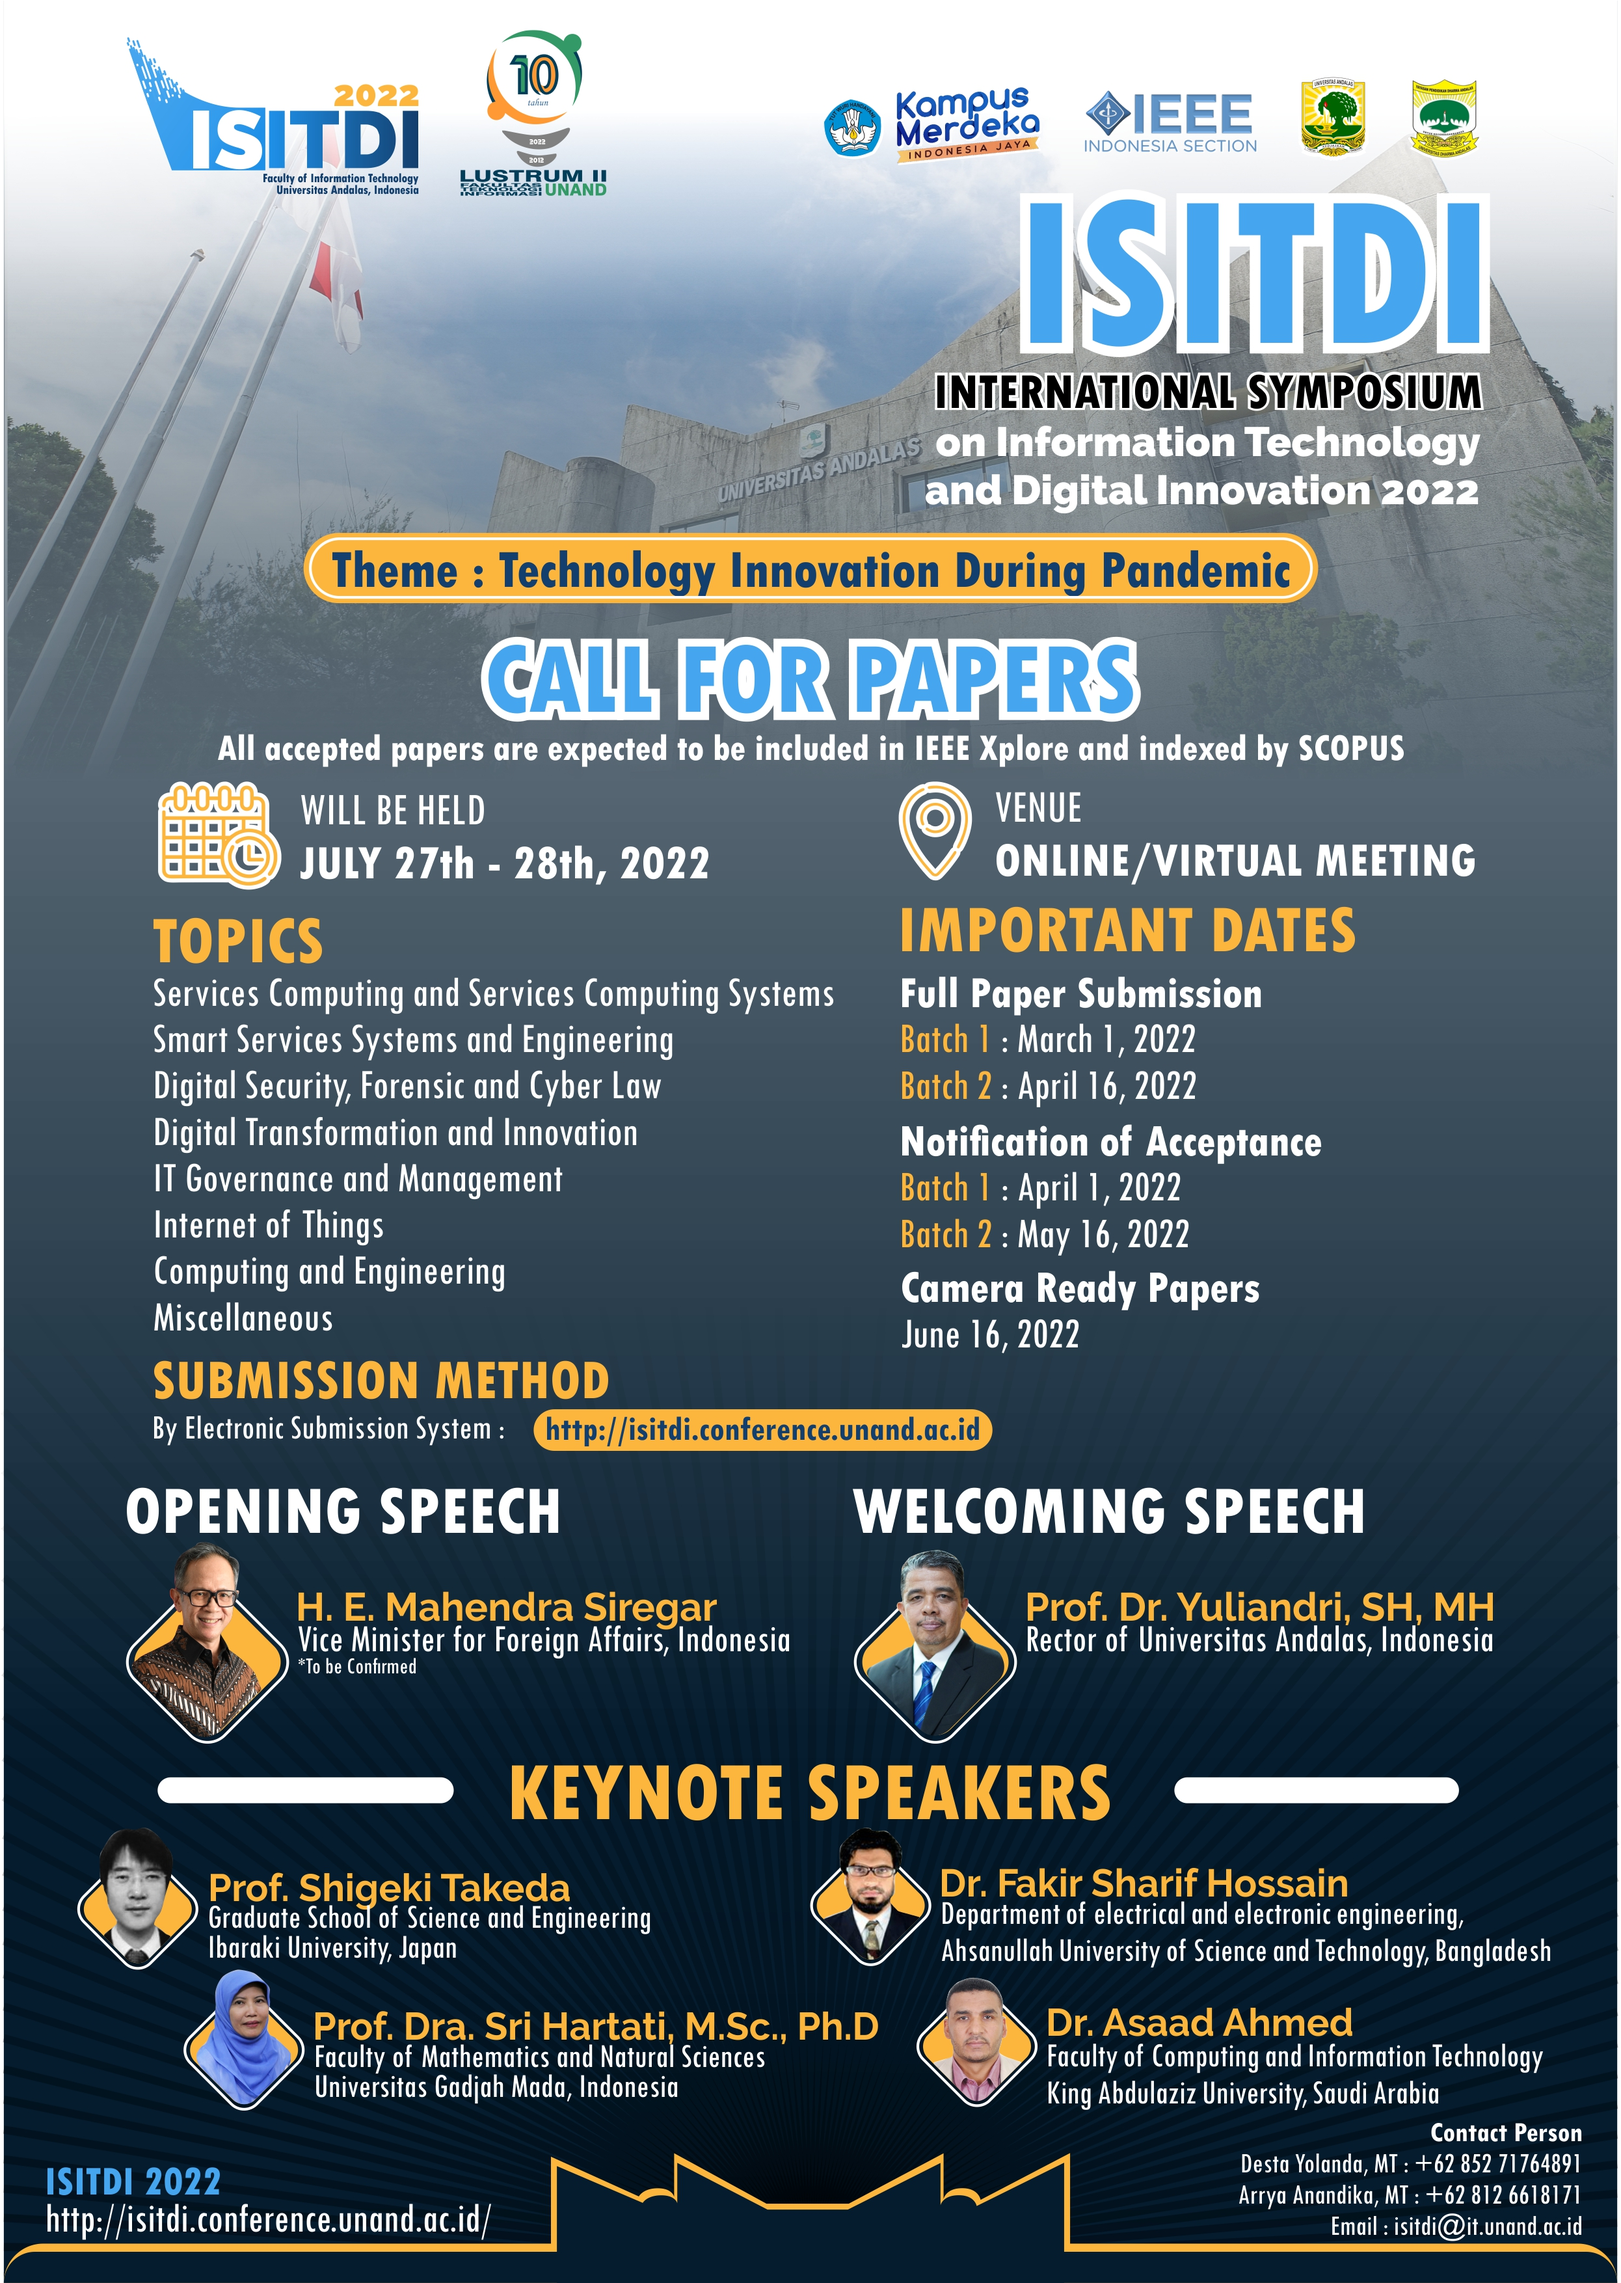
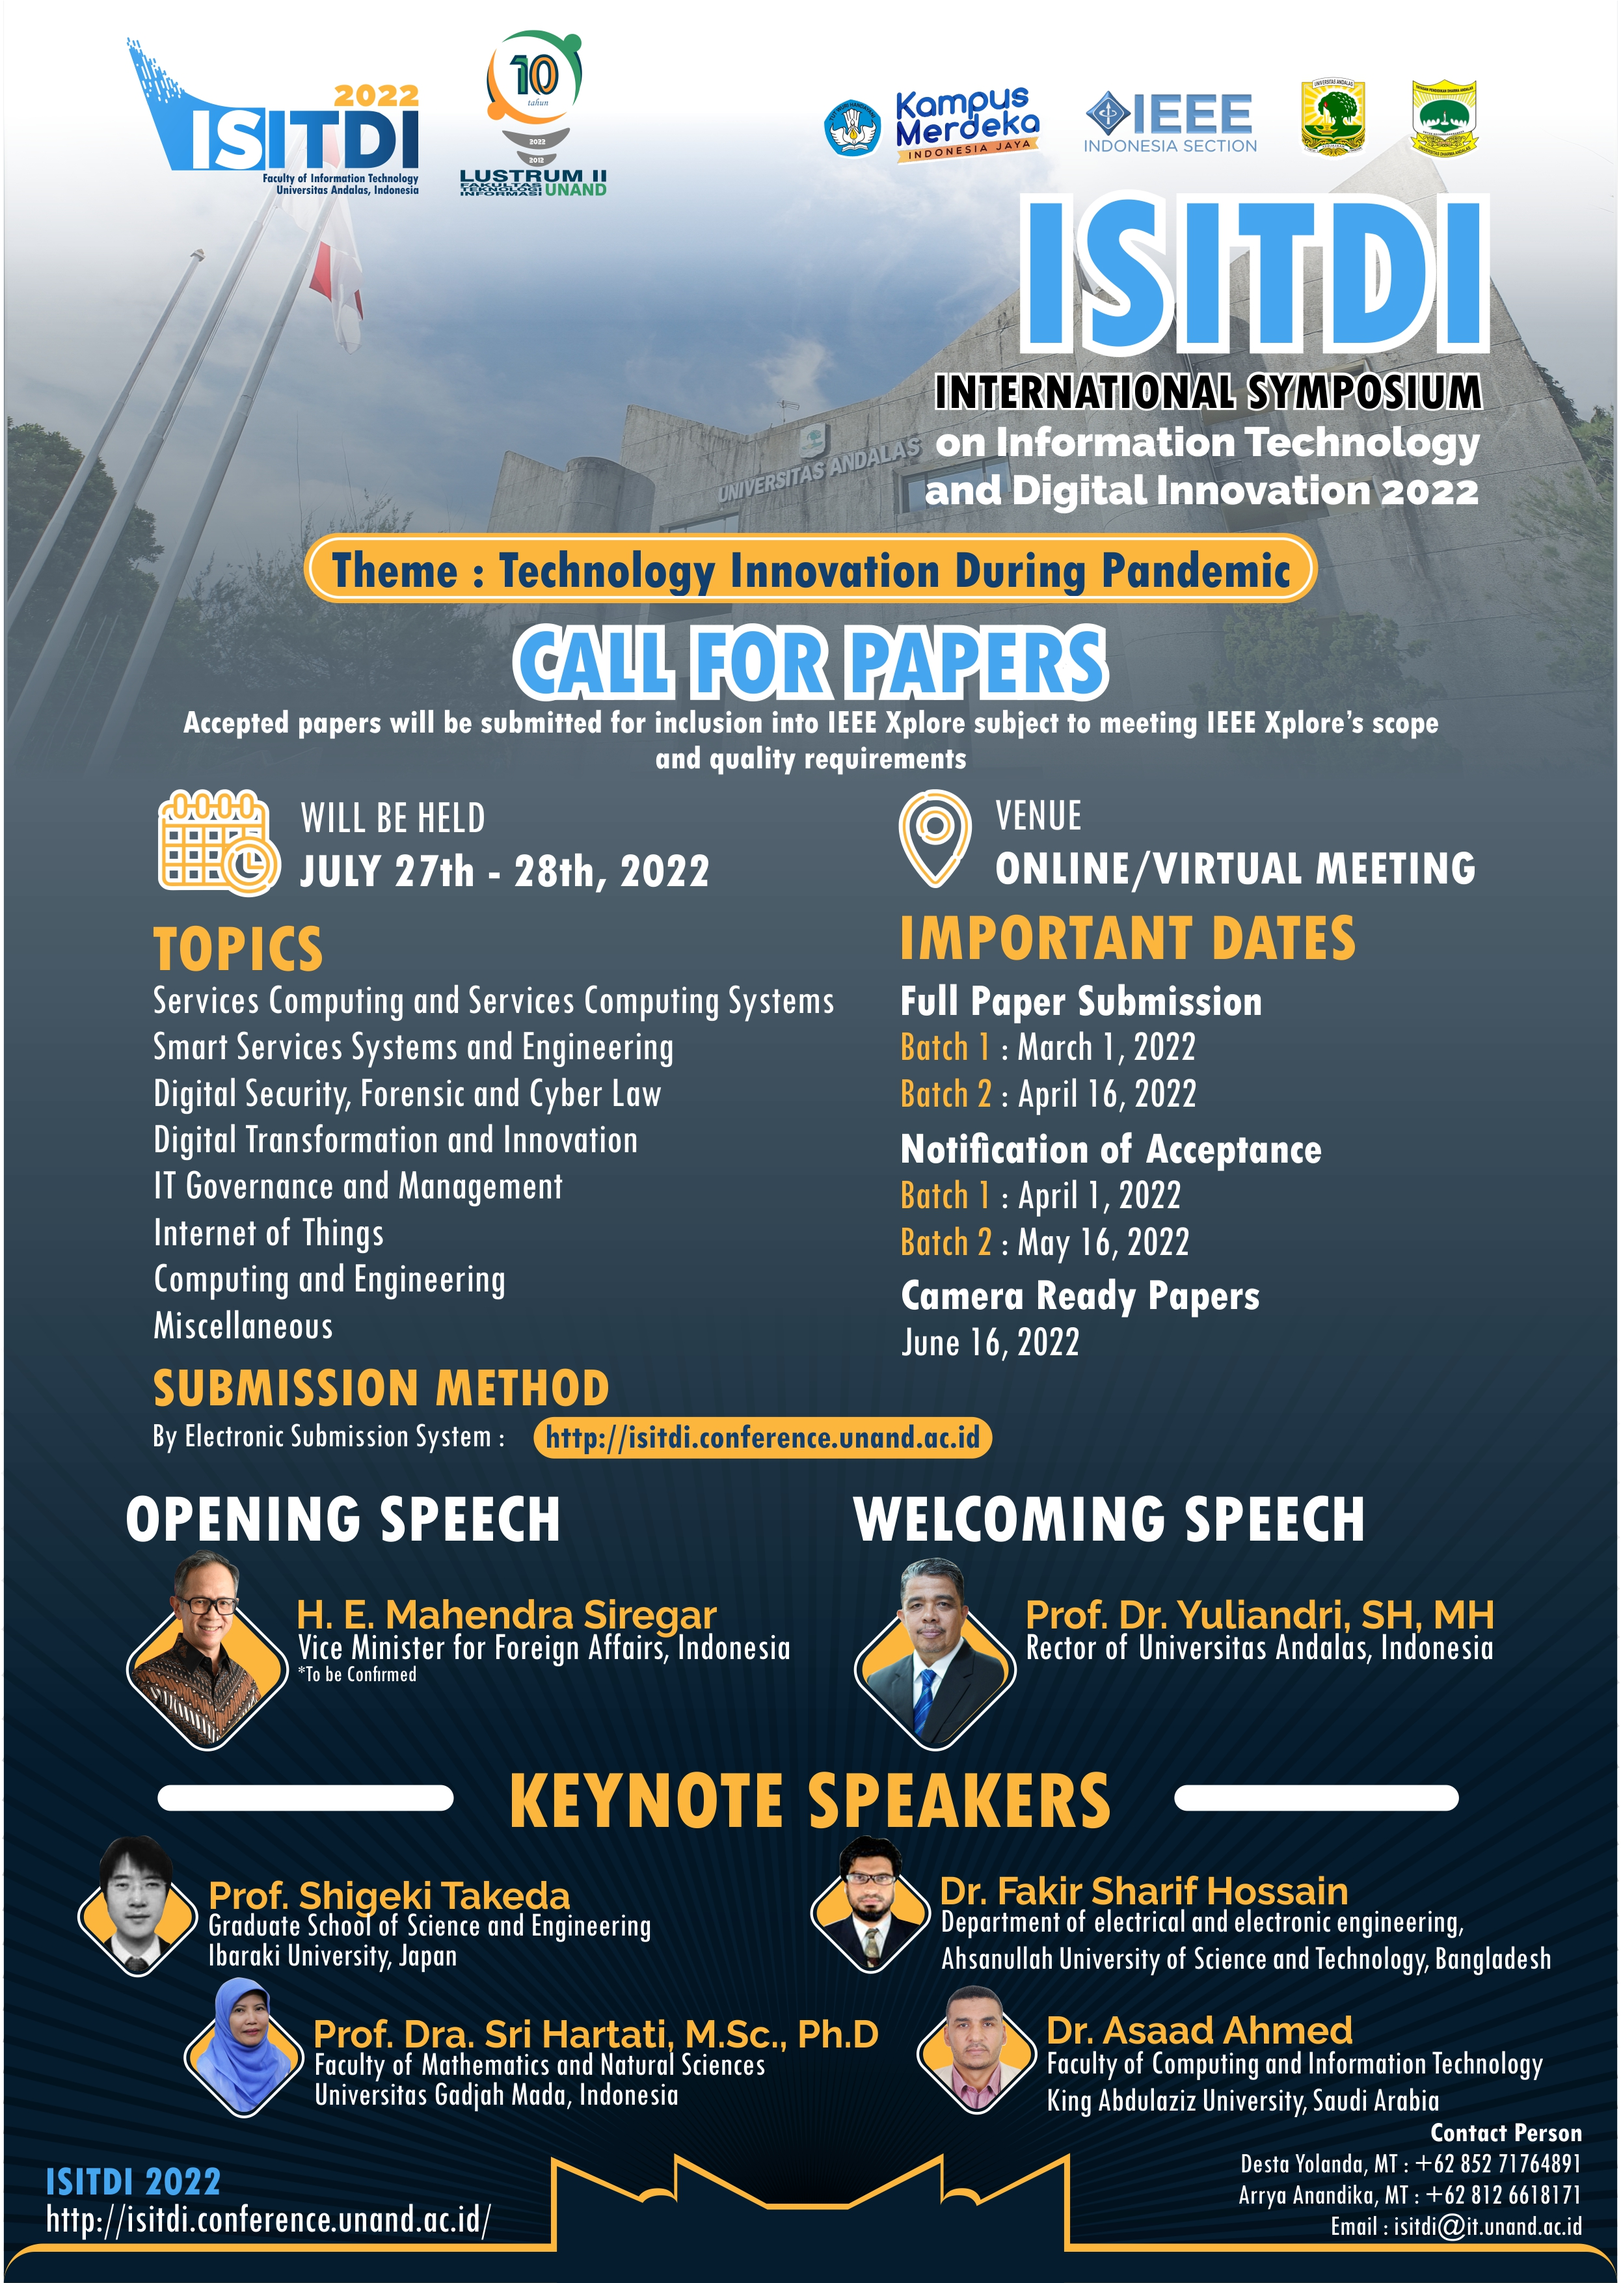
Banyak kandak

Changed region(s): [[0.0618, 0.2485, 0.9579, 0.9319], [0.927, 0.9008, 0.9579, 0.9319]]

diff --git a/index.html b/index.html
@@ -199,7 +199,7 @@
                             On behalf of the ISITDI 2022 committee, we welcome all researchers, engineers, academicians, and industry professionals from all over the world to this wonderful virtual symposium. We look forward to receiving the papers in order to be disseminated to
                             a broader audience. The paper submission deadlines are March 1st, 2022 (batch #1), and April 16th, 2022 (batch #2).
                         </p>
-                        <p>All accepted papers are expected to be included in IEEE Xplore and indexed by SCOPUS. </p>
+                        <p>Accepted papers will be submitted for inclusion into IEEE Xplore subject to meeting IEEE Xplore’s scope and quality requirements. </p>
                     </div>
                 </div>
             </div>
